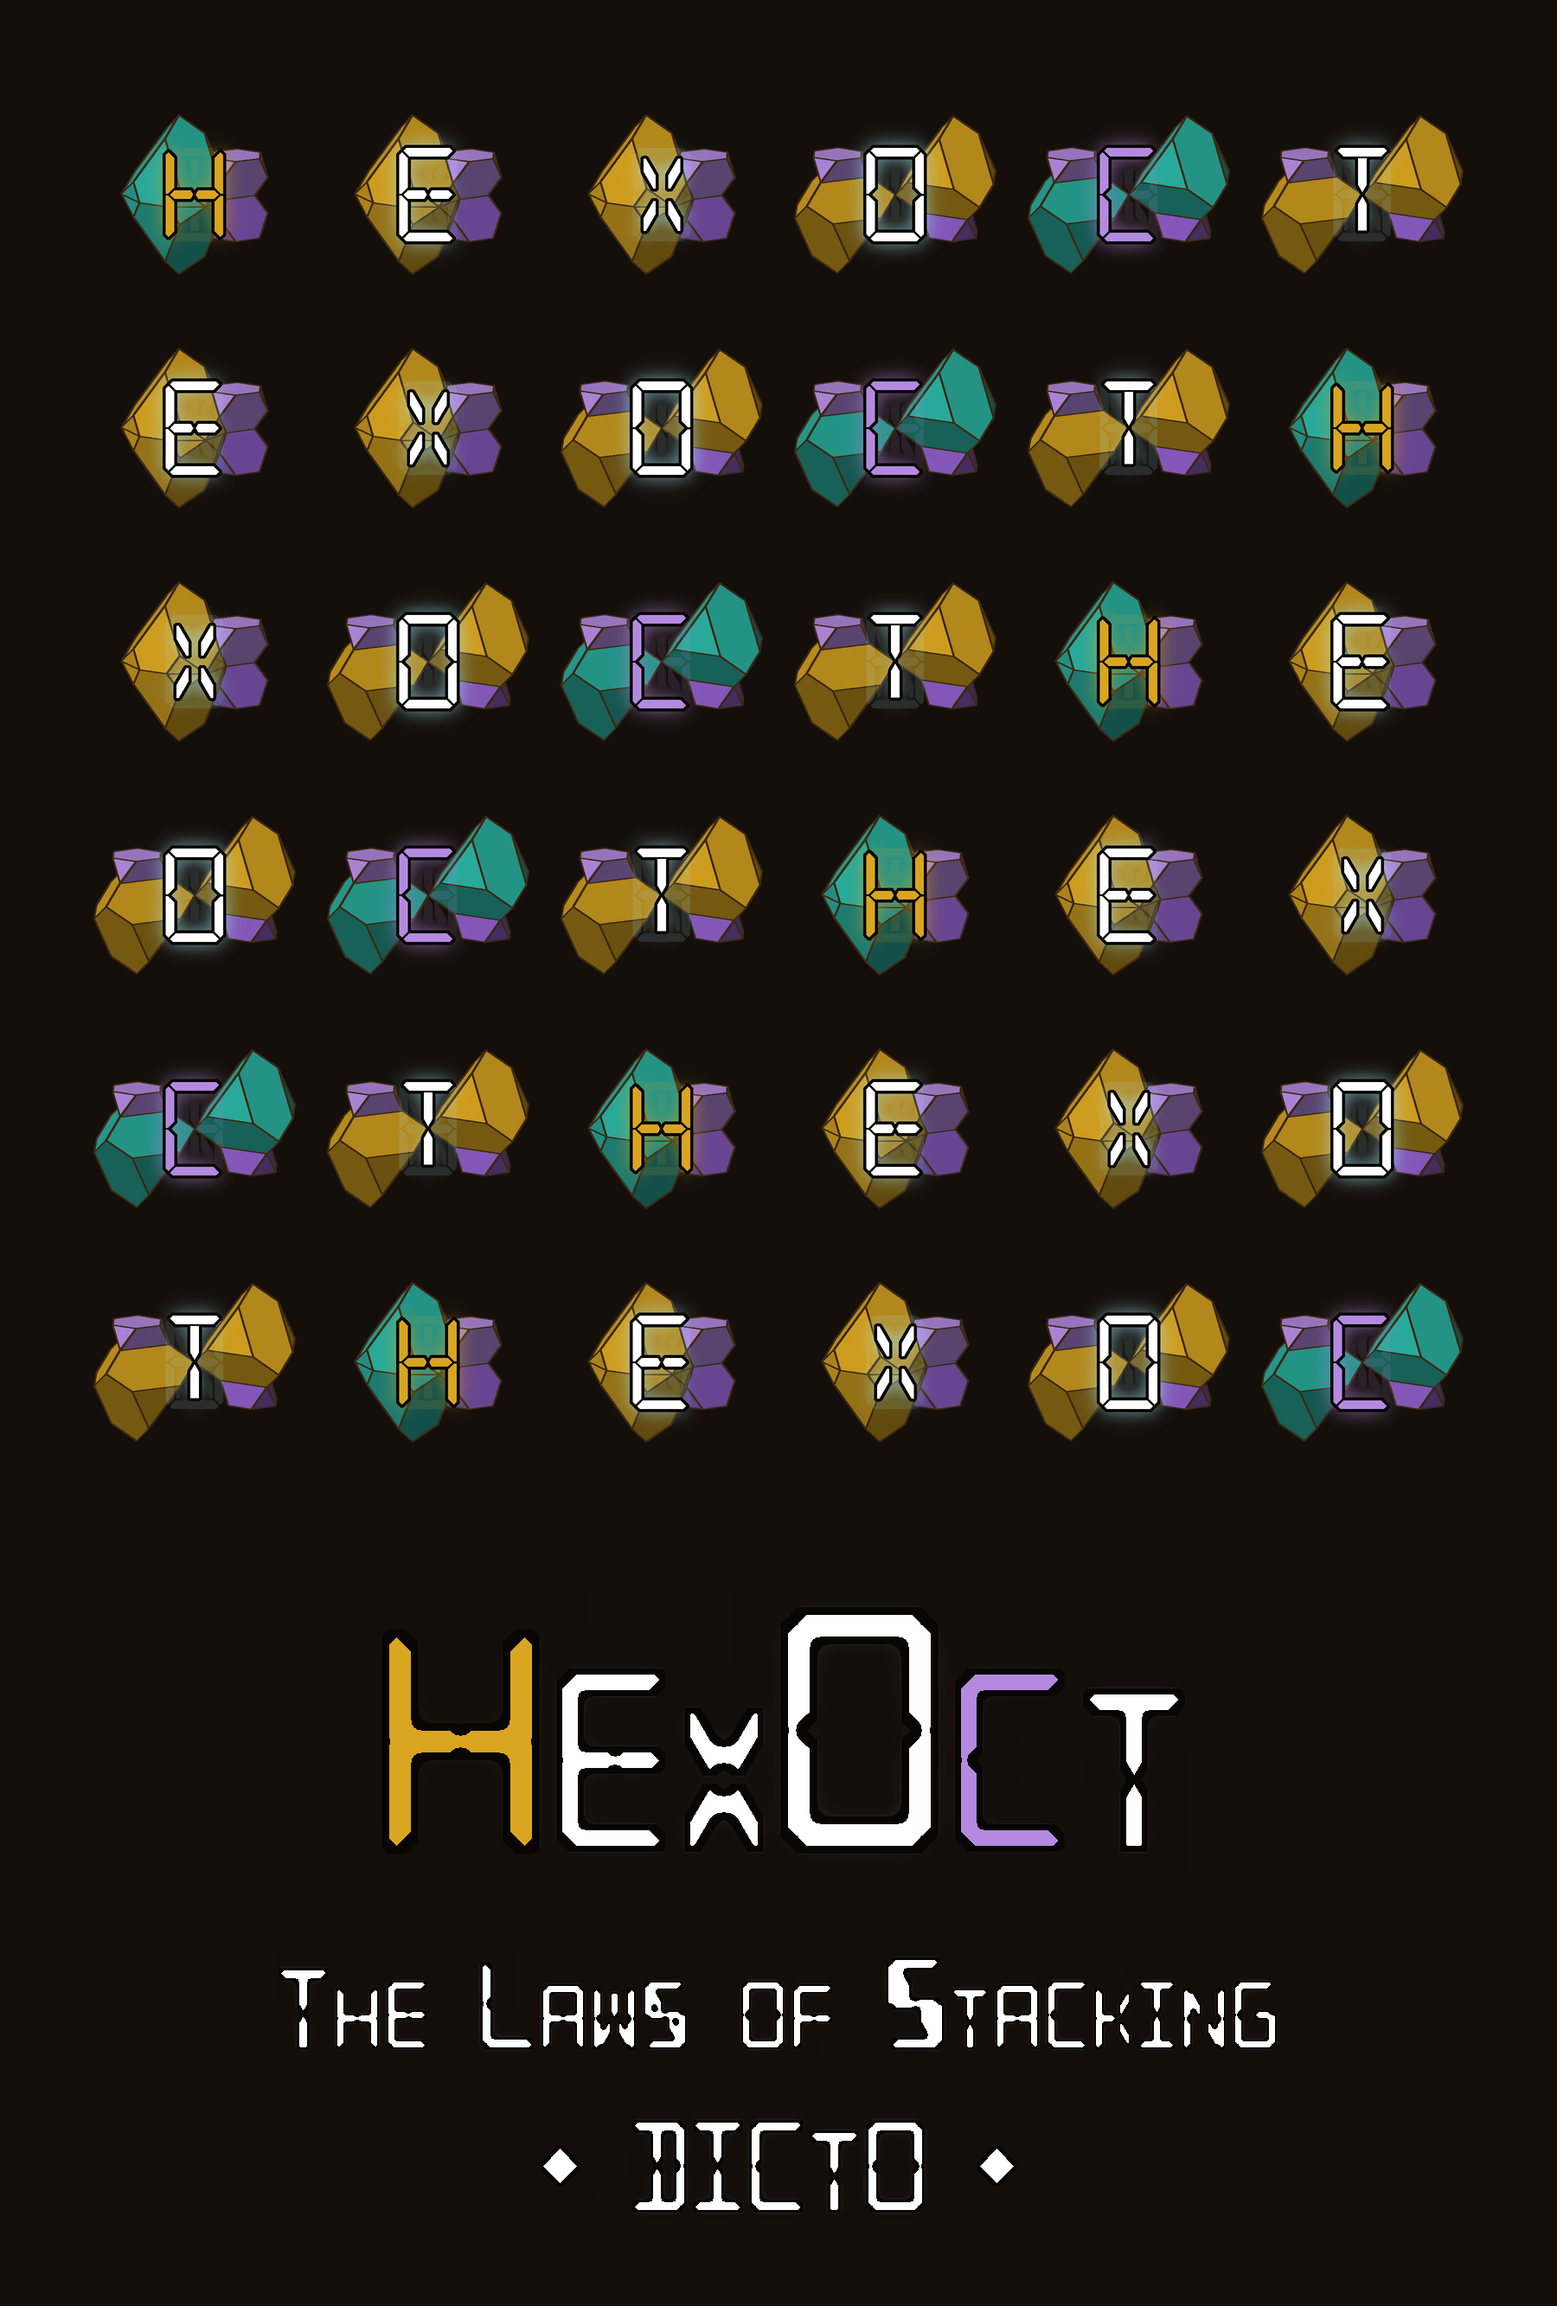
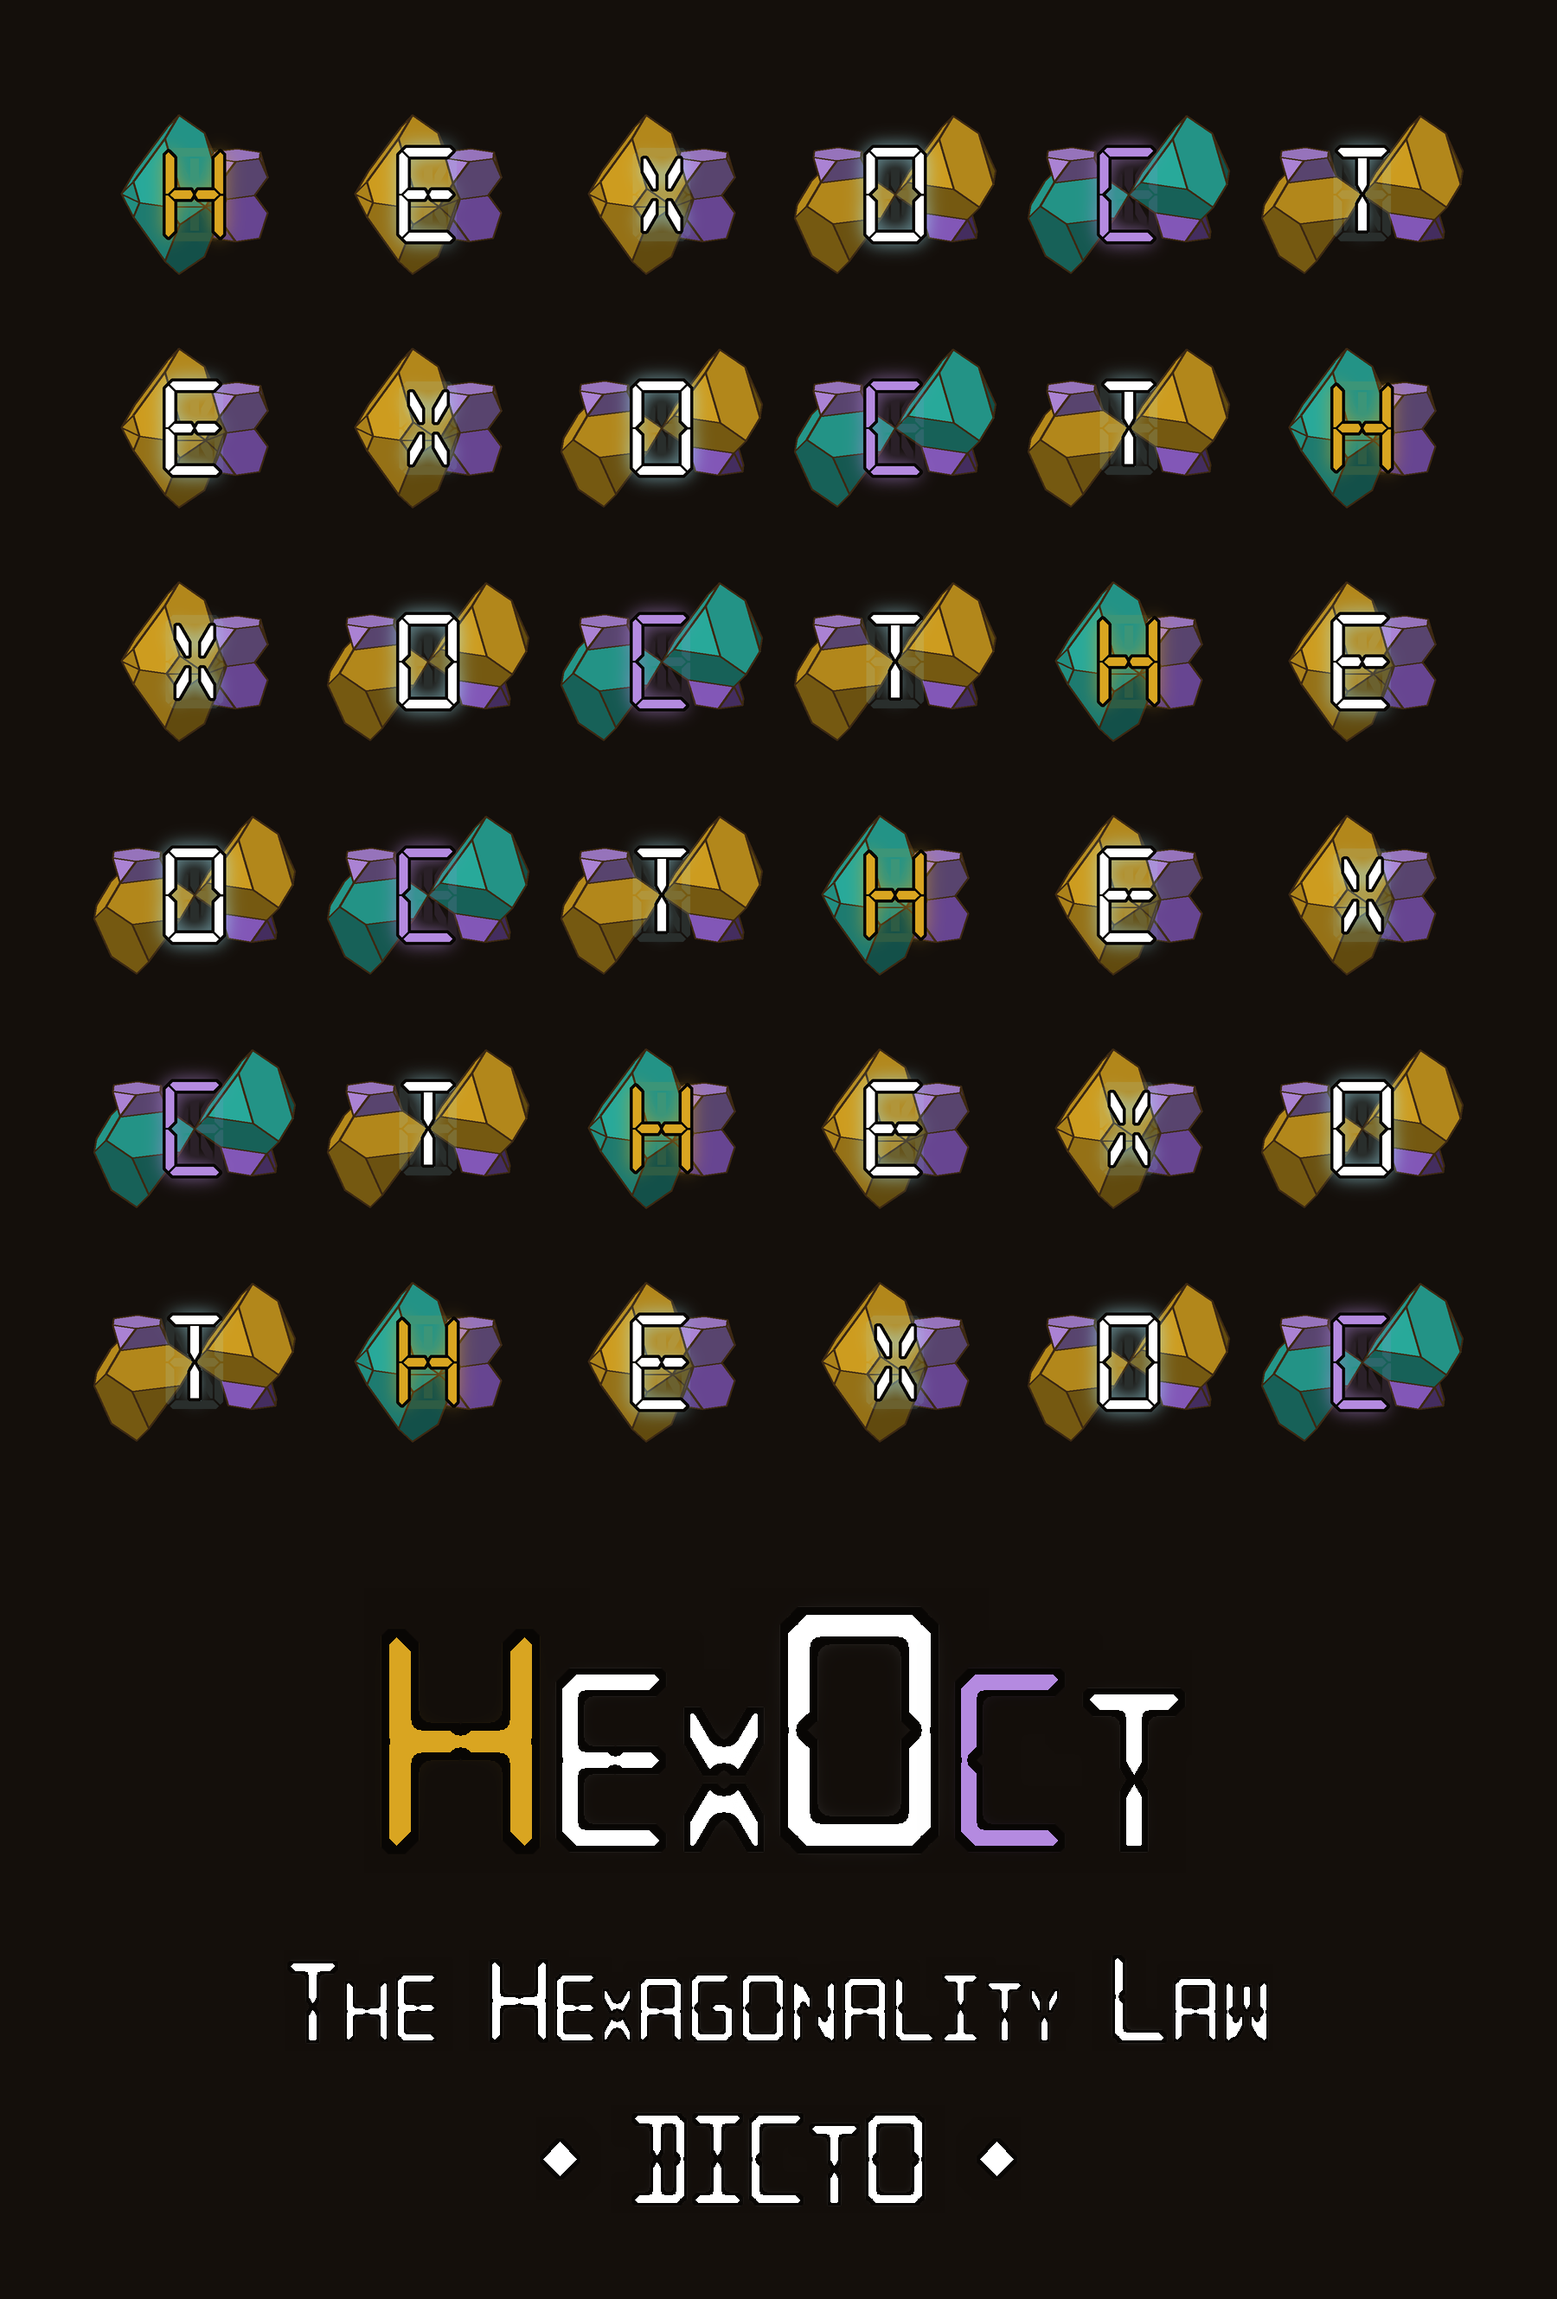
HexOct book v5 draft: retitled HexOct: The Hexagonality Law (DICTO 10-30), cover title panel, KDP cover text

diff --git a/papers/book-laws-of-stacking/paper.html b/papers/book-laws-of-stacking/paper.html
@@ -1,5 +1,5 @@
 <!doctype html>
-<html lang="en"><head><meta charset="utf-8"><title>HexOct: The Laws of Stacking</title>
+<html lang="en"><head><meta charset="utf-8"><title>HexOct: The Hexagonality Law</title>
 <link rel="stylesheet" href="../paper.css"><style>.draft{color:#b00;font-weight:700;border:2px solid #b00;padding:2mm 3mm;margin:0 0 4mm;font-size:9.5pt} p.prec{font-size:9pt;color:#3a3a3a;border-left:2px solid #b8962e;padding-left:3mm;margin:2mm 0 4mm} figure{margin:4mm 0;text-align:center} figure img{width:100%} figcaption{font-size:8.5pt;color:#444}
 figure img{width:100%;display:block;border-radius:2pt} p.prec{font-size:9pt;color:#3a3a3a;border-left:2px solid #b8962e;padding-left:3mm;margin:3mm 0} .thm{border-left:3px solid #b8962e;padding-left:3mm;margin:3mm 0}
 p.hook { font-style: italic; color: #4a3f2a; border-left: 2px solid #c9a24a; padding-left: 3mm; margin: 2mm 0 2mm; } td.n { font-variant-numeric: tabular-nums; } table { font-size: 8.2pt; } .thm{margin:6pt 0;padding:4pt 0 4pt 9pt;border-left:2px solid #b8962e} figure{break-inside:avoid}
@@ -17,17 +17,17 @@ body,h1,h2,h3,h4,.sub,.meta,figcaption,table,.status,ol.refs{font-family:"Nimbus
 body{font-size:10pt}</style></head><body>
 <img class="watermark" src="../dicto-logo.png" alt="">
 <div class="coverpage" style="height:252mm;display:flex;justify-content:center;align-items:center">
-<img src="figures/cover/hexoct-cover-front.png" alt="Cover: HexOct, The Laws of Stacking, DICTO, over the HexOct square of the two tiles" style="height:248mm;display:block">
+<img src="figures/cover/hexoct-cover-front.png" alt="Cover: HexOct, The Hexagonality Law, DICTO, over the HexOct square of the two tiles" style="height:248mm;display:block">
 </div>
 <div class="titlepage" style="break-before:page">
 <img class="logo" src="../dicto-logo.png" alt="DICTO" style="position:static;width:42mm;margin-bottom:8mm">
 <h1>HexOct</h1>
-<p class="sub">The Laws of Stacking</p>
+<p class="sub">The Hexagonality Law</p>
 <p class="epigraph" style="margin-top:12mm;font-style:italic;font-size:13pt">The Law gave the pieces,<br>The pieces prove the law.</p>
 <p style="font-size:9pt;color:#555;margin-top:-2mm">DICTO</p>
 <p style="margin-top:14mm"><b>DICTO</b><br>artist, Osaka, Japan · ORCID 0009-0001-2620-2036<br>https://dictospheres.com</p>
-<p style="font-size:9pt;color:#555;margin-top:10mm">Book · Version 4, second edition · 29 October 2026 · DICTO DOI: 10.5281/zenodo.23731359 · Licence CC BY-SA 4.0<br>
-The ideas and names are DICTO's. Computation and proof with Claude (Anthropic).<br>First edition: The Laws of Stacking (28 October 2026), the same record.<br>Cover: the HexOct square (DICTO): HEXOCT across the top and down the side, each letter once in every row and column; H, E, X on the h-tile and O, C, T on the c-tile; where the tile matches its letter, H on the h-tile and C on the c-tile, the tile is teal.</p>
+<p style="font-size:9pt;color:#555;margin-top:10mm">Book · Version 5, second edition · 30 October 2026 · DICTO DOI: 10.5281/zenodo.23731359 · Licence CC BY-SA 4.0<br>
+The ideas and names are DICTO's. Computation and proof with Claude (Anthropic).<br>Titled HexOct: The Hexagonality Law from version 5 (DICTO, 30 October 2026); versions 2 to 4 were titled HexOct: The Laws of Stacking, and the first edition The Laws of Stacking (28 October 2026), all the same record.<br>Cover: the HexOct square (DICTO): HEXOCT across the top and down the side, each letter once in every row and column; H, E, X on the h-tile and O, C, T on the c-tile; where the tile matches its letter, H on the h-tile and C on the c-tile, the tile is teal.</p>
 </div>
 <section style="break-before:page">
 <h2>Opening</h2>

diff --git a/papers/book-laws-of-stacking/front.html b/papers/book-laws-of-stacking/front.html
@@ -1,15 +1,15 @@
 <div class="coverpage" style="height:252mm;display:flex;justify-content:center;align-items:center">
-<img src="figures/cover/hexoct-cover-front.png" alt="Cover: HexOct, The Laws of Stacking, DICTO, over the HexOct square of the two tiles" style="height:248mm;display:block">
+<img src="figures/cover/hexoct-cover-front.png" alt="Cover: HexOct, The Hexagonality Law, DICTO, over the HexOct square of the two tiles" style="height:248mm;display:block">
 </div>
 <div class="titlepage" style="break-before:page">
 <img class="logo" src="../dicto-logo.png" alt="DICTO" style="position:static;width:42mm;margin-bottom:8mm">
 <h1>HexOct</h1>
-<p class="sub">The Laws of Stacking</p>
+<p class="sub">The Hexagonality Law</p>
 <p class="epigraph" style="margin-top:12mm;font-style:italic;font-size:13pt">The Law gave the pieces,<br>The pieces prove the law.</p>
 <p style="font-size:9pt;color:#555;margin-top:-2mm">DICTO</p>
 <p style="margin-top:14mm"><b>DICTO</b><br>artist, Osaka, Japan · ORCID 0009-0001-2620-2036<br>https://dictospheres.com</p>
-<p style="font-size:9pt;color:#555;margin-top:10mm">Book · Version 4, second edition · 29 October 2026 · DICTO DOI: 10.5281/zenodo.23731359 · Licence CC BY-SA 4.0<br>
-The ideas and names are DICTO's. Computation and proof with Claude (Anthropic).<br>First edition: The Laws of Stacking (28 October 2026), the same record.<br>Cover: the HexOct square (DICTO): HEXOCT across the top and down the side, each letter once in every row and column; H, E, X on the h-tile and O, C, T on the c-tile; where the tile matches its letter, H on the h-tile and C on the c-tile, the tile is teal.</p>
+<p style="font-size:9pt;color:#555;margin-top:10mm">Book · Version 5, second edition · 30 October 2026 · DICTO DOI: 10.5281/zenodo.23731359 · Licence CC BY-SA 4.0<br>
+The ideas and names are DICTO's. Computation and proof with Claude (Anthropic).<br>Titled HexOct: The Hexagonality Law from version 5 (DICTO, 30 October 2026); versions 2 to 4 were titled HexOct: The Laws of Stacking, and the first edition The Laws of Stacking (28 October 2026), all the same record.<br>Cover: the HexOct square (DICTO): HEXOCT across the top and down the side, each letter once in every row and column; H, E, X on the h-tile and O, C, T on the c-tile; where the tile matches its letter, H on the h-tile and C on the c-tile, the tile is teal.</p>
 </div>
 <section style="break-before:page">
 <h2>Opening</h2>

diff --git a/studies/2026-10-29-hexoct-cover/scripts/kdp_cover.py b/studies/2026-10-29-hexoct-cover/scripts/kdp_cover.py
@@ -1,4 +1,4 @@
-# Amazon KDP paperback wrap cover for "HexOct: The Laws of Stacking" (DICTO 10-29). A4 trim 8.27 x 11.69 in, 80 pages,
+# Amazon KDP paperback wrap cover for "HexOct: The Hexagonality Law" (DICTO 10-29; retitled 10-30). A4 trim 8.27 x 11.69 in, 80 pages,
 # standard colour on white paper: spine = 80 x 0.002252 in = 0.180 in (KDP's figure for white paper; check against KDP's
 # cover calculator before upload); bleed 0.125 in on the outer edges; 300 dpi. Left to right: back, spine, front.
 # Front: hexoct-cover-front.png on the dark ground. Spine: HEXOCT · DICTO, top to bottom. Back: text in Nimbus Sans, the
@@ -16,7 +16,7 @@ fr = Image.open('../hexoct-cover-front.png').convert('RGB'); sh = TH - 0.5; sw =
 fr = fr.resize((px(sw), px(sh)), Image.LANCZOS); im.paste(fr, (px(xf0 + (TW - sw) / 2), px(BLEED + 0.25)))
 # spine: text reads top to bottom
 fs = ImageFont.truetype('NimbusSans-Bold.otf', px(SPINE - 0.125) + 6)
-t = 'HEXOCT  ·  THE LAWS OF STACKING  ·  DICTO'; tw = d.textlength(t, font=fs)
+t = 'HEXOCT  ·  THE HEXAGONALITY LAW  ·  DICTO'; tw = d.textlength(t, font=fs)
 lab = Image.new('RGB', (int(tw) + 20, px(SPINE)), GROUND); ImageDraw.Draw(lab).text((10, px(SPINE) / 2), t, font=fs, fill=WHITE, anchor='lm')
 lab = lab.rotate(-90, expand=True); im.paste(lab, (px(xs0), px(BLEED + TH / 2) - lab.height // 2))
 # back
@@ -31,7 +31,7 @@ def para(x, y, text, font, width, fill=WHITE, lead=1.42):
     return y
 x = px(xb0 + 0.85); wid = px(TW - 1.7); y = px(BLEED + 1.0)
 d.text((x, y), 'HexOct', font=F('NimbusSans-Bold.otf', 30), fill=GOLD); y += px(0.62)
-d.text((x, y), 'The Laws of Stacking', font=F('NimbusSans-Regular.otf', 16), fill=WHITE); y += px(0.6)
+d.text((x, y), 'The Hexagonality Law', font=F('NimbusSans-Regular.otf', 16), fill=WHITE); y += px(0.6)
 body = F('NimbusSans-Regular.otf', 11.5)
 y = para(x, y, 'Stack equal balls in close-packed layers, each new layer in the hollows of the one below, and the space between them '
          'is shared out into a few kinds of piece. This book follows three laws found in this one setting. The Rule of Halves: the gaps of '

diff --git a/papers/book-laws-of-stacking/assemble.py b/papers/book-laws-of-stacking/assemble.py
@@ -1,4 +1,4 @@
-# Assemble the book "HexOct: The Laws of Stacking" (second edition, DICTO 10-29; first edition "The Laws of Stacking") from the published paper sources (DICTO 10-28).
+# Assemble the book "HexOct: The Hexagonality Law" (retitled by DICTO 10-30; "HexOct: The Laws of Stacking" 10-29; first edition "The Laws of Stacking") from the published paper sources (DICTO 10-28).
 # Mechanical pass: each paper becomes a chapter (title, abstract, sections, theorems, figures kept word for word);
 # the meta line goes; "Sources checked", "Data and code" and "References" move to one appendix by chapter;
 # figures are copied into figures/<folder>/ and renumbered per chapter. Front matter and epilogue come from front.html
@@ -118,7 +118,7 @@ figure img{width:100%;display:block}
 body,h1,h2,h3,h4,.sub,.meta,figcaption,table,.status,ol.refs{font-family:"Nimbus Sans","Liberation Sans","DejaVu Sans",sans-serif}
 body{font-size:10pt}'''
 doc=f'''<!doctype html>
-<html lang="en"><head><meta charset="utf-8"><title>HexOct: The Laws of Stacking</title>
+<html lang="en"><head><meta charset="utf-8"><title>HexOct: The Hexagonality Law</title>
 <link rel="stylesheet" href="../paper.css"><style>{css}</style></head><body>
 <img class="watermark" src="../dicto-logo.png" alt="">
 {(re.sub(r'<div class="coverpage".*?</div>\n', '', front, count=1, flags=re.S) if os.environ.get('KDP') else front).replace('__TOC__',tochtml)}

diff --git a/studies/2026-10-29-hexoct-cover/scripts/cover_title.py b/studies/2026-10-29-hexoct-cover/scripts/cover_title.py
@@ -47,7 +47,7 @@ def paste(canvas, img, cx, y):
     rgb, a = img; h, w = a.shape; x = int(cx - w / 2)
     c = canvas[y:y + h, x:x + w]; canvas[y:y + h, x:x + w] = c * (1 - a[..., None]) + rgb * a[..., None]; return y + h
 big = word('HEXOCT', int(N * 0.11), lambda ch: GOLD if ch == 'H' else VIOLET if ch == 'C' else WHITE, big=(0, 3))
-sub = word('THE LAWS OF STACKING', int(N * 0.042), lambda ch: WHITE, big=(0, 4, 12))
+sub = word('THE HEXAGONALITY LAW', int(N * 0.042), lambda ch: WHITE, big=(0, 4, 17))   # DICTO 10-30: book retitled HexOct: The Hexagonality Law
 by = word('* DICTO *', int(N * 0.042), lambda ch: WHITE, big=(0, 2, 3, 4, 5, 6, 8))   # every letter of DICTO is an initial (DICTO)
 H = big[1].shape[0] + sub[1].shape[0] + by[1].shape[0] + int(N * 0.16)
 panel = np.ones((H, N, 3)) * np.array(GROUND, float)
